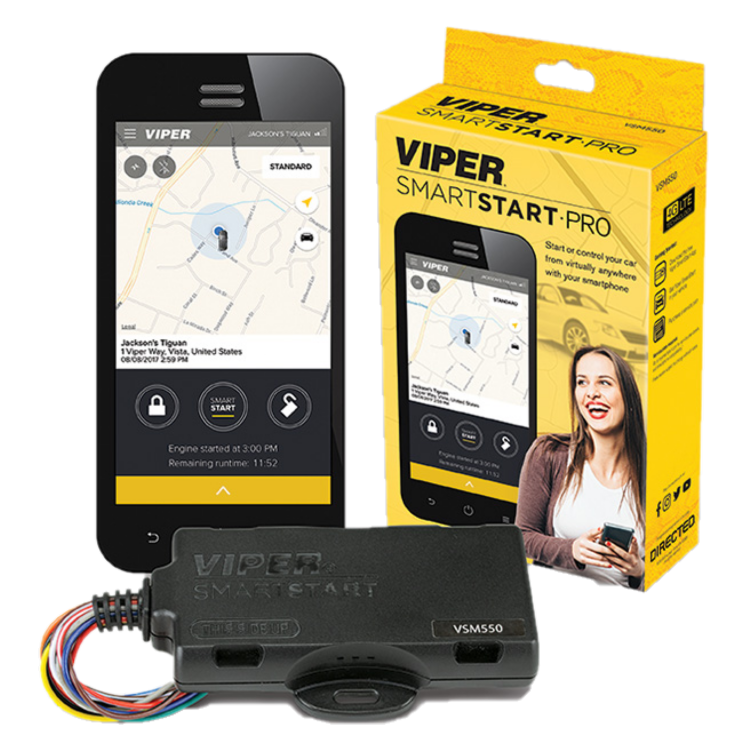
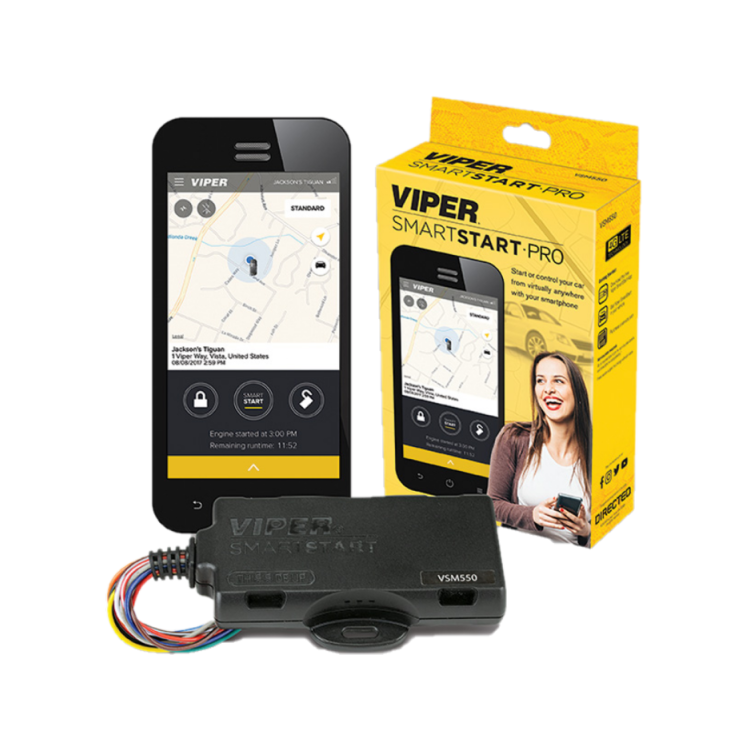
style and class updates

diff --git a/index.html b/index.html
@@ -96,7 +96,7 @@
                     </div>
                     <div class="product remote col-xl-6 col-md-6 col-sm-6">
                         <img class="img-fluid" src="images/good/4115v-1.png" alt="Viper 4115v">
-                        <div>
+                        <div class="detail-header">
                             <p class="price">$399.99</p>
                             <p>One Button 1-Way Installed</p>
                             <p>Includes DS4 or DS4+ and T Harness</p>                            
@@ -120,7 +120,7 @@
                     </div>
                     <div class="product remote col-xl-6 col-md-6 col-sm-6">
                         <img class="img-fluid" src="images/good/4105v-1.png" alt="Viper 4105v"> 
-                        <div>
+                        <div class="detail-header">
                             <p class="price">$399.99</p>
                             <p>Four Button 1-Way Installed</p>
                             <p>Includes DS4 or DS4+ and T Harness</p>
@@ -171,7 +171,7 @@
                     </div>
                     <div class="product remote col-xl-4 col-sm-6">
                         <img class="img-fluid" src="images/better/4816v-1.png" alt="Viper 4816v">
-                        <div>
+                        <div class="detail-header">
                             <p class="price">$469.99</p>
                             <p>One Button 2-Way Installed</p>
                             <p>Includes DS4 or DS4+ and T Harness</p>
@@ -199,7 +199,7 @@
                     </div>
                     <div class="product remote col-xl-4 col-sm-6">
                         <img class="img-fluid" src="images/better/4806v-1.png" alt="Viper 4806v">
-                        <div>                            
+                        <div class="detail-header">                            
                             <p class="price">$469.99</p>
                             <p>Five Button LED 2-Way Installed</p>
                             <p>Includes DS4 or DS4+ and T Harness</p>
@@ -230,7 +230,7 @@
                     </div>
                     <div class="product remote col-xl-4 col-sm-6">
                         <img class="img-fluid" src="images/better/4706v-1.png" alt="Viper 4706v">
-                        <div>
+                        <div class="detail-header">
                             <p class="price">$539.99</p>
                             <p>Five Button LCD 2-Way Installed</p>
                             <p>Includes DS4 or DS4+ and T Harness</p>
@@ -273,35 +273,38 @@
                     <div class="product-text">
                         <h2>SmartStart Remote Start System</h2>
                     </div>
-                    <div class="product col-xl-6 col-md-6 col-sm-12">
-                        <img class="img-fluid" src="images/best/vsm550-1.png" alt="Viper vsm550">
-                        <p>Viper Smart Start VSM550</p>
-                        <p>Includes DS4 or DS4+ and T Harness</p>
-                        <button>Product Details</button> 
-                    </div>
-                    <div class="product col-xl-6 col-md-6 col-sm-12">
-                        <p class="itemDesc">
-                            Viper SmartStart lets you remote start, lock and unlock your car with the push of a button on your smartphone.                            
-                        </p>
-                        <p>
-                            The SmartStart system allows you to monitor and operate your car alarm, and or, remote
-                            starter from anywhere in the world from your smartphone.  A service plan is required.  The basic monthly
-                            service plan is free for a year!  Additional benefits (dependent on plan).
-                        </p>
-                        <ul>
-                            <li>GPS monitoring and tracking</li>
-                            <li>Roadside assistance</li>
-                            <li>Trip history breadcrumb trails</li>
-                            <li>Battery alerts and check engine codes</li>
-                            <li>Careless driving alerts</li>
-                            <li>Web portal monitoring</li>
-                            <li>Monitor multiple vehicles from one account</li>
-                            <li>Vehicle impact alerts</li>
-                        </ul>
-                        <p>
-                            You can also control multiple vehicles - great for families! - and assign more than one user to control a vehicle.
-                        </p>
-                    </div>
+                    <div class="row">
+                        <div class="product detail-header col-xl-6 col-md-6 col-sm-12">
+                            <img class="img-fluid" src="images/best/vsm550-1.png" alt="Viper vsm550">
+                            <p class="price">$539.99</p>
+                            <p>Smart Start Pro</p>
+                            <p>Includes DS4+ and T Harness</p>
+                            <!-- <button>Product Details</button>  -->
+                        </div>
+                        <div class="addOnDesc col-xl-6 col-md-6 col-sm-12">                    
+                            <p>
+                                This system includes everything you need to remote start, lock and unlock, locate and
+                                control your car from your smartphone from virtually anywhere in the world. Virtually unlimited range!                            
+                            </p>
+                            <p>
+                                *Please note a service plan is required. The basic monthly service plan is free for a year!
+                                Additional benefits (dependent on plan).
+                            </p>
+                            <ul>
+                                <li>GPS monitoring and tracking</li>
+                                <li>Roadside assistance</li>
+                                <li>Trip history breadcrumb trails</li>
+                                <li>Battery alerts and check engine codes</li>
+                                <li>Careless driving alerts</li>
+                                <li>Web portal monitoring</li>
+                                <li>Monitor multiple vehicles from one account</li>
+                                <li>Vehicle impact alerts</li>
+                            </ul>
+                            <p>
+                                You can also control multiple vehicles - great for families! - and assign more than one user to control a vehicle.
+                            </p>
+                        </div>
+                    </div>                    
                 </div>
             </div>
         </fieldset>
@@ -313,38 +316,74 @@
             <div class="container clearfix rounded pt-3 pb-3">
                 <div class="grid">
                     <div class="product-text">
-                        <h2>Upgrades</h2>
-                        <h4>Add Security</h4>
+                        <h2>Upgrades</h2>                        
                     </div>
-                    <div class="product col-xl-6 col-md-6 col-sm-12">
-                        <img class="img-fluid" src="images/ultimate/vsm550-1.png" alt="Viper 4115v">
-                        <p>Security Upgrade for Viper DS4+ Remote Start Systems</p>
-                        <button>Product Details</button>
-                    </div>
-                    <div class="product col-xl-6 col-md-6 col-sm-12">
-                        <div class="itemDesc">
+                    <!-- <div class="row">
+                        <div class="product col-xl-6 col-md-6 col-sm-12">
+                            <img class="img-fluid" src="images/ultimate/security-1.png" alt="Viper 4115v">
+                            <p>Security Upgrade for Viper DS4+ Remote Start Systems</p>
+                            <button>Product Details</button>
+                        </div>
+                        <div class="col-xl-6 col-md-6 col-sm-12">
+                            <div>
+                                <h4>Add Security</h4>
+                                <p>
+                                    Protect your vehicle from theft with this Directed DS4+ security kit. It includes a
+                                    six-tone mini siren that audibly alerts you when someone tries to break into your car,
+                                    and the shock/tilt sensor activates the alarm and acts as a deterrent for potential intruders.
+                                    This Directed DS4+ security kit works with existing remote start systems for full security protection.
+                                </p>
+                                <ul>
+                                    <li>
+                                        <b>Add security to Viper DS4+</b><br>                                    
+                                        Create a complete and fully-featured DS4+ remote start and security system for full vehicle security and convenience.
+                                    </li>
+                                    <li>
+                                        <b>Add additional protection</b><br>
+                                        Guards against vehicle theft, component theft or content theft.
+                                    </li>
+                                    <li>                                
+                                        <b>Upgrade kit</b><br>
+                                        Includes a shock/tilt sensor and six-tone siren.
+                                    </li>
+                                </ul>
+                            </div>
+                        </div>
+                    </div> -->
+                    <div class="row">
+                        <div class="product detail-header col-xl-6 col-md-6 col-sm-12">
+                            <img class="img-fluid" src="images/ultimate/smartStartPro.png" alt="Viper vsm550">
+                            <p class="price">$169.99</p>
+                            <p>Smart Start Pro Add-on</p>
+                            <p>(Does Not Include the DS4+ and T-Harness)</p>
+                            <!-- <button>Product Details</button>  -->
+                        </div>
+                        <div class="addOnDesc col-xl-6 col-md-6 col-sm-12">
+                            <h4 class="text-center">Add Smart Start</h4>
                             <p>
-                                Protect your vehicle from theft with this Directed DS4+ security kit. It includes a
-                                six-tone mini siren that audibly alerts you when someone tries to break into your car,
-                                and the shock/tilt sensor activates the alarm and acts as a deterrent for potential intruders.
-                                This Directed DS4+ security kit works with existing remote start systems for full security protection.
+                                Add the Smart Start Pro to any of our Remote Start packages on this website for $169.99.
+                                (All of our remote start packages include the DS4 or DS4+ and T-Harnes which are
+                                required to operate the Smart Start Pro)
                             </p>
                             <ul>
                                 <li>
-                                    <b>Add security to Viper DS4+</b><br>                                    
-                                    Create a complete and fully-featured DS4+ remote start and security system for full vehicle security and convenience.
+                                    World’s Fastest Connected Vehicle!                                        
                                 </li>
                                 <li>
-                                    <b>Add additional protection</b><br>
-                                    Guards against vehicle theft, component theft or content theft.
+                                    GPS monitoring & alerts
                                 </li>
-                                <li>                                
-                                    <b>Upgrade kit</b><br>
-                                    Includes a shock/tilt sensor and six-tone siren.
+                                <li>                                                                        
+                                    Remote start, lock, and unlock with most digital remote start or security systems                                        
+                                </li>
+                                <li>
+                                    Ultra-reliable North America coverage over 4G LTE/3G fallback
+                                </li>
+                                <li>
+                                    Stealth installation under the dash
                                 </li>
                             </ul>
                         </div>
-                    </div>
+                    </div>                    
                 </div>
             </div>
         </fieldset>

diff --git a/css/styles.css b/css/styles.css
@@ -1,5 +1,8 @@
-h1, h2{
+h1, h2, h3, h4, h5{
     font-family: 'Orbitron', sans-serif;
+    font-weight: bold;
+}
+h1, h2{
     font-size: calc(1.5rem + 1.5vw);
 }
 h2{
@@ -64,6 +67,9 @@ html {
     font-size: 18px; font-family: 'Asap', sans-serif;
     padding-top: 5%;
 }
+.addOnDesc{
+    margin-top: 3rem;
+}
 .loc {
     font-family: 'Asap', sans-serif;
     text-align: center;
@@ -127,8 +133,10 @@ div li, div p{
 .product
 {
     display: block;
-    text-align: center;
     float: left;
+}
+.detail-header{
+    text-align: center;
 }
 .product-text{
     display: inline-block;
@@ -402,6 +410,9 @@ div li, div p{
     }
     .oneWayDesc{
         text-align: left;
+    }
+    .addOnDesc{
+        margin-top: 1rem;
     }
     .price{
         text-align: center;
